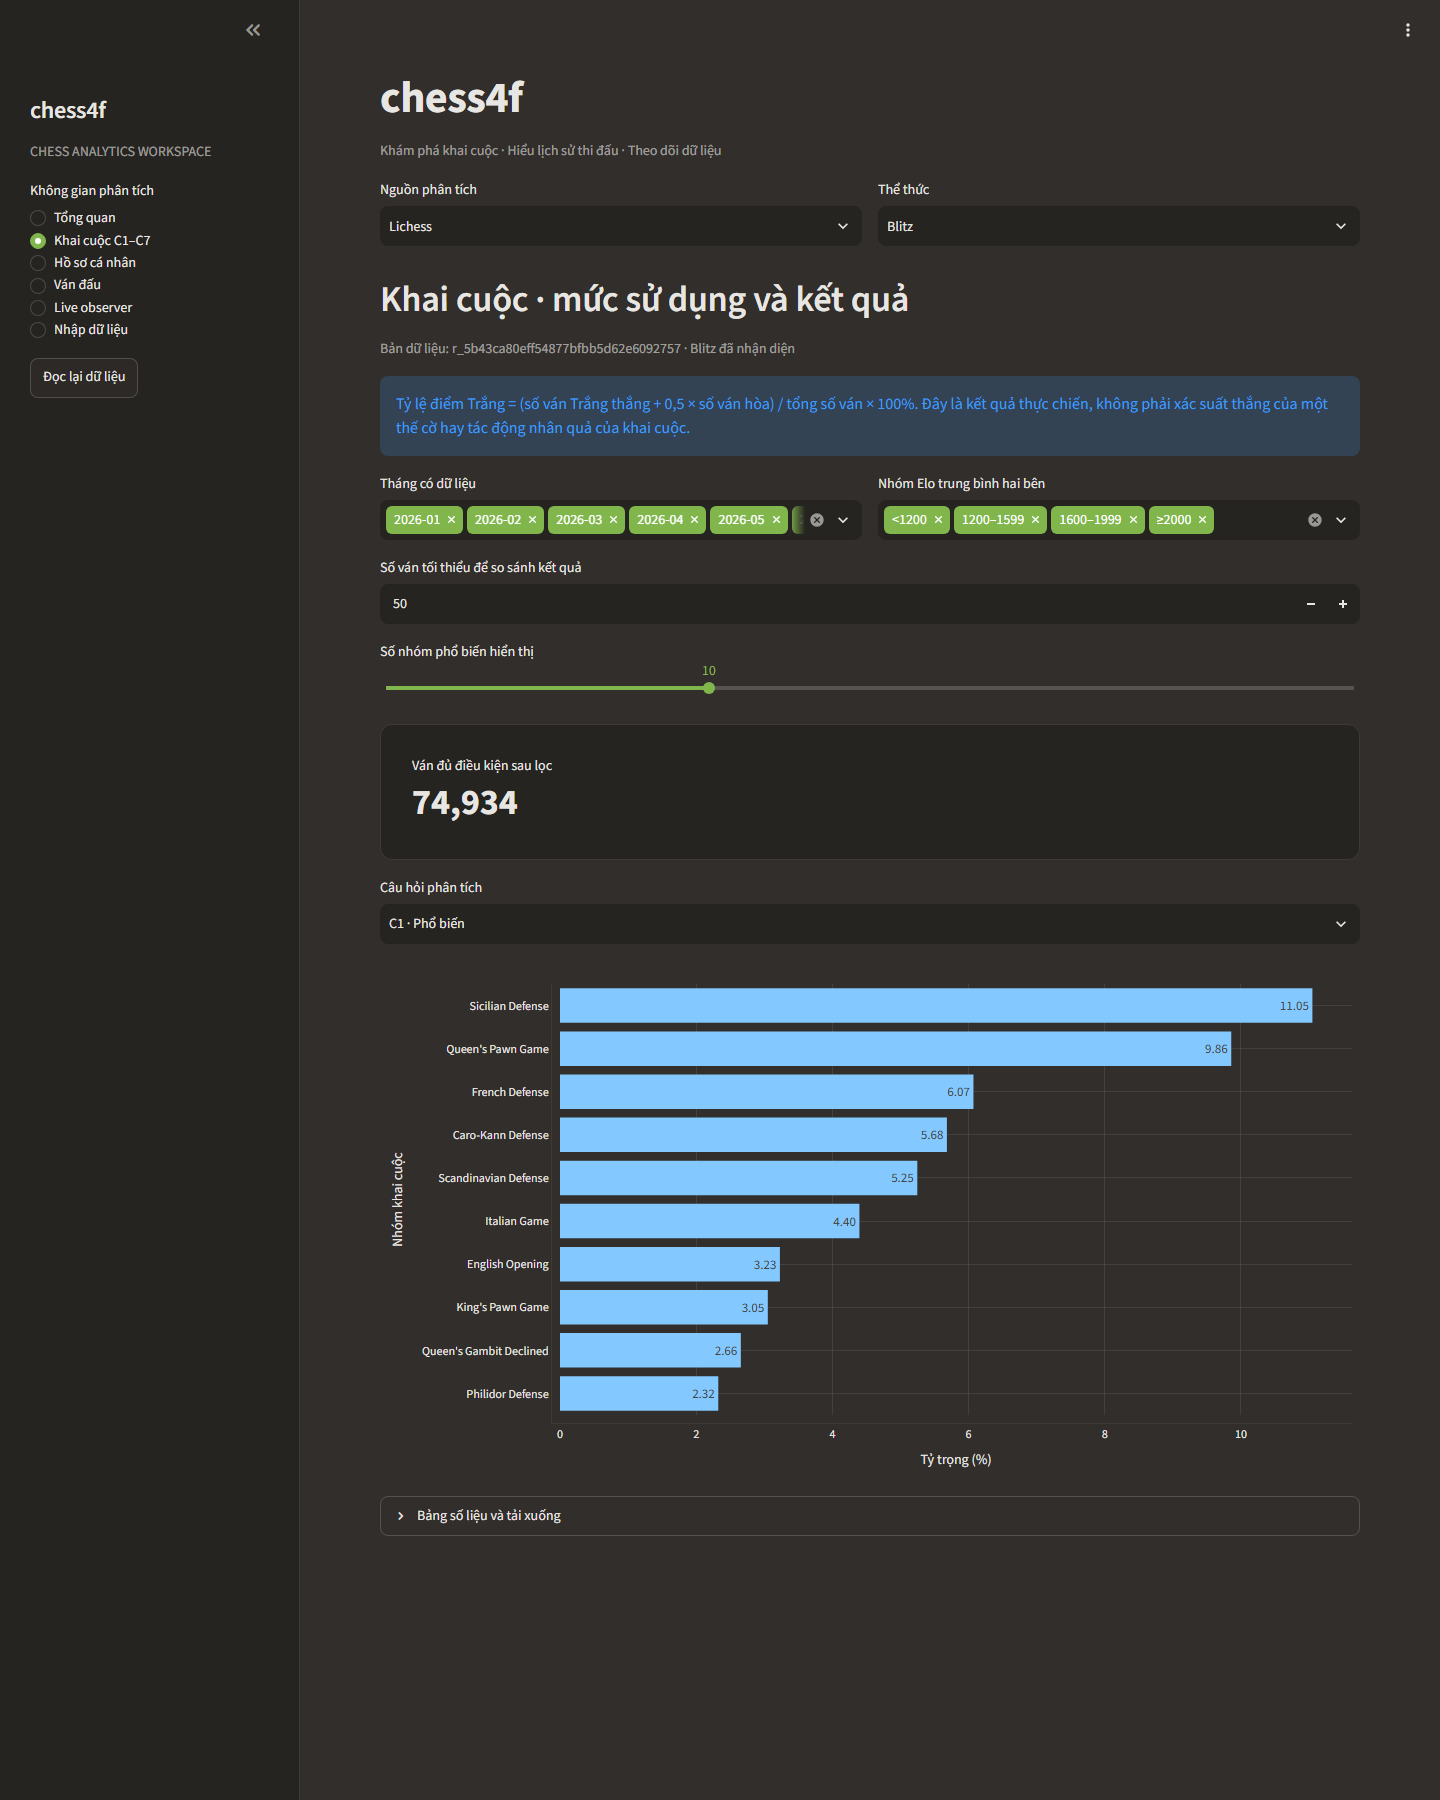
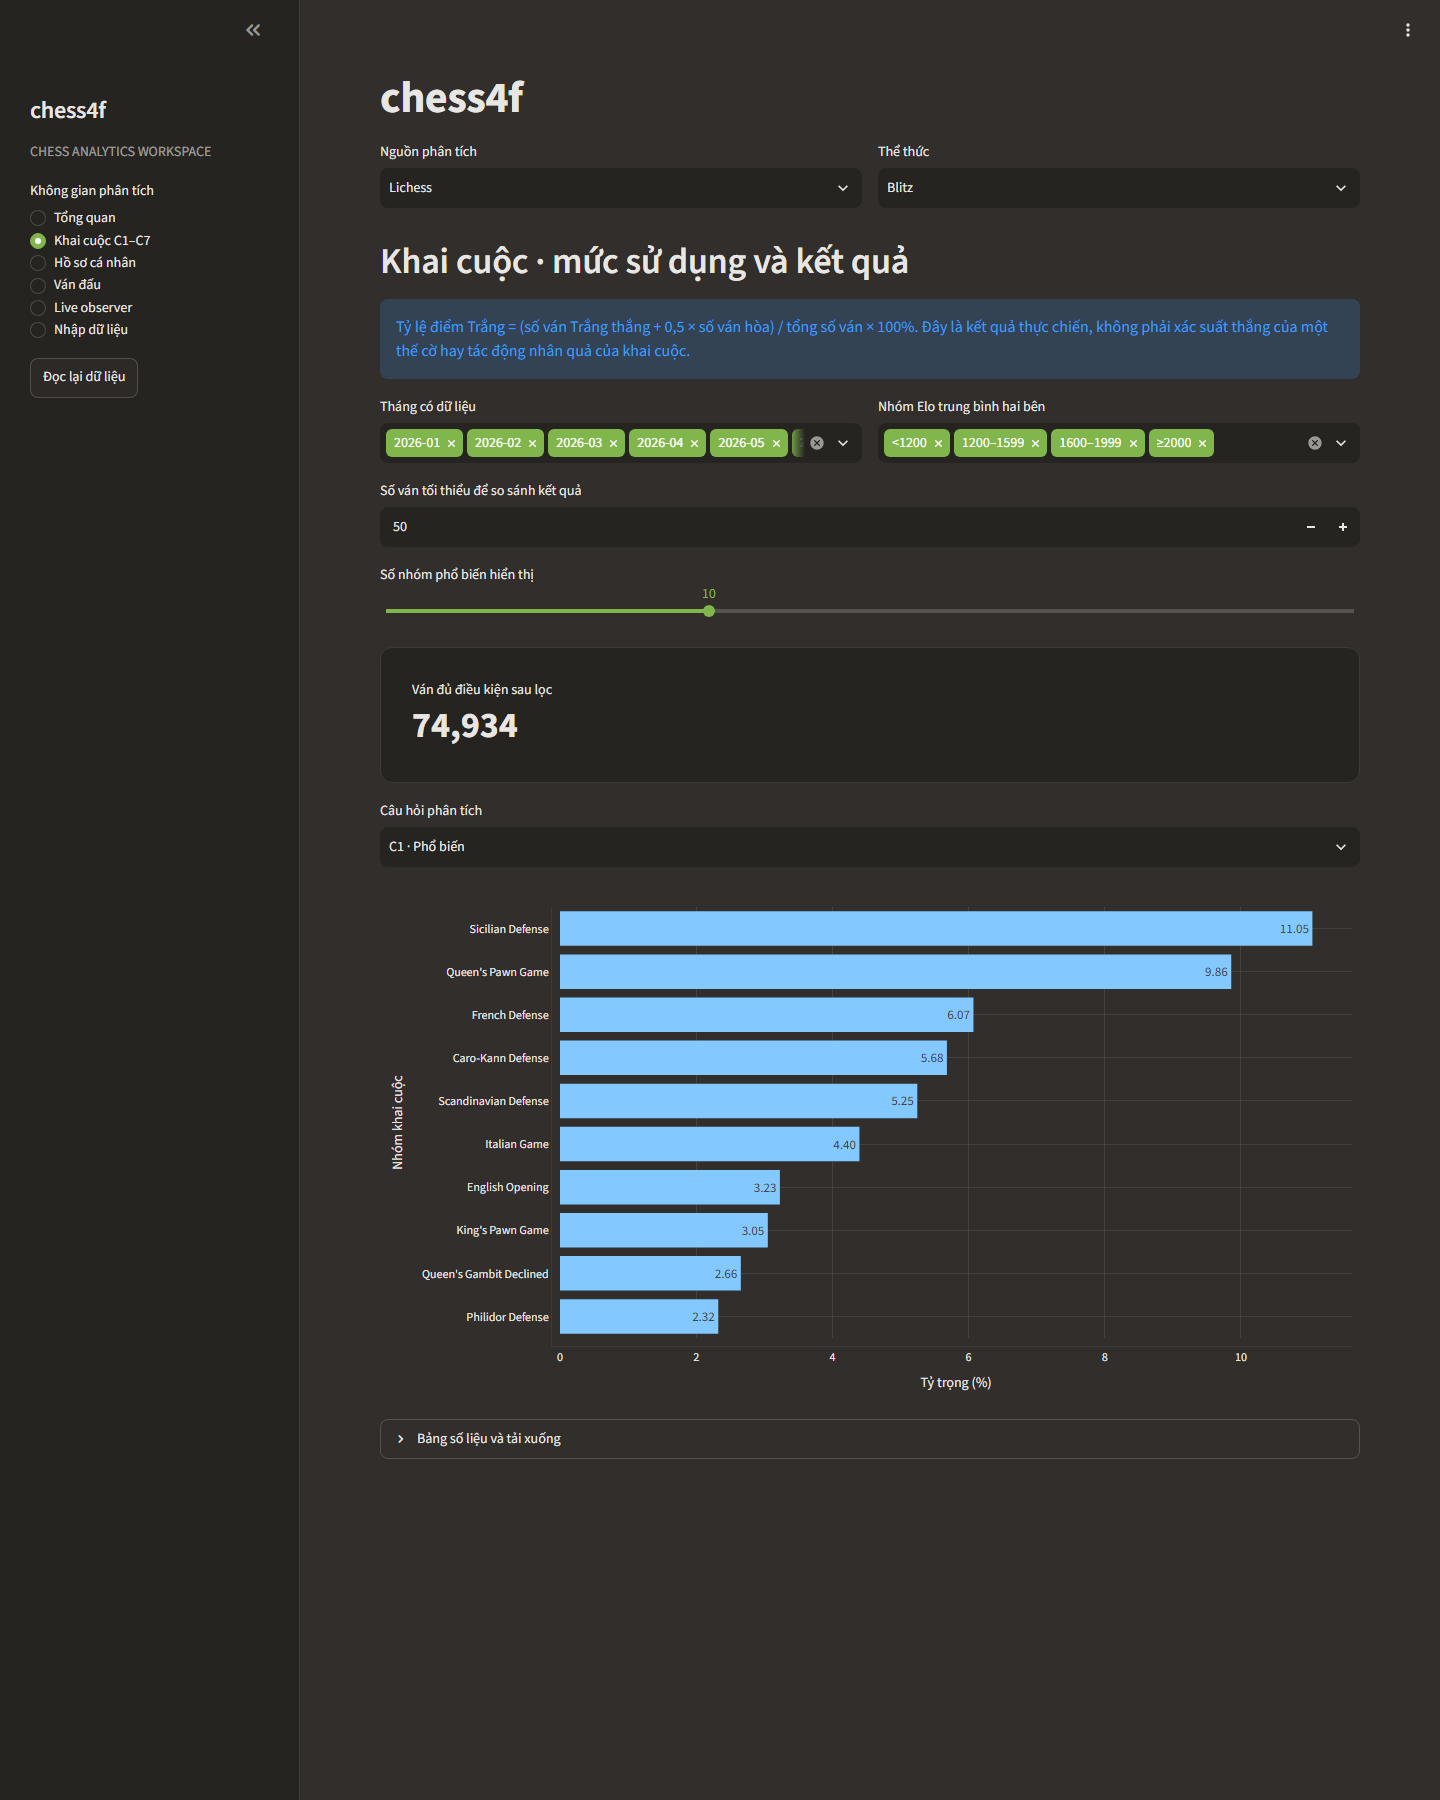
Remove tagline, range and release captions from the UI
Drops the 'Hiểu lịch sử thi đấu' tagline, the imported-range caption under
the overview metrics and the 'Bản dữ liệu' caption in opening analysis.
Screenshots recaptured on the dark theme; docs refreshed for the 107,155
game release.

diff --git a/apps/dashboard.py b/apps/dashboard.py
@@ -121,7 +121,6 @@ SPEED_NAMES = {"blitz": "Blitz", "rapid": "Cờ 10 phút (Rapid)", "bullet": "Bu
                "classical": "Classical", "all": "Tất cả thể thức"}
 BOARD_COLORS = {"square light": "#EEEED2", "square dark": "#769656"}
 st.title("chess4f")
-st.caption("Khám phá khai cuộc · Hiểu lịch sử thi đấu · Theo dõi dữ liệu")
 st.sidebar.title("chess4f")
 st.sidebar.caption("CHESS ANALYTICS WORKSPACE")
 section = st.sidebar.radio("Không gian phân tích", ["Tổng quan", "Khai cuộc C1–C7", "Hồ sơ cá nhân", "Ván đấu", "Live observer", "Nhập dữ liệu"])
@@ -146,7 +145,6 @@ if section == "Tổng quan":
         a.metric("Ván đã nhập", f'{s["games"]:,}', border=True)
         b.metric("Nhận diện được", f'{s["recognized"]:,}', border=True)
         c.metric("Nhóm khai cuộc", s["opening_families"], border=True)
-        st.caption(f'Phạm vi đã nhập: {s["first_game"]} → {s["last_game"]}')
         with st.expander("Phạm vi mẫu và cách cập nhật", expanded=False):
             if source == "lichess":
                 st.write("Mỗi lượt thu thập demo giới hạn 1.000 ván Rated Blitz đầu tiên khớp tháng. Bộ mẫu ban đầu tháng 9 và tháng 10/2026 gồm 2.000 ván; đồng bộ người chơi và ván trực tiếp có thể bổ sung dữ liệu; đây không phải giới hạn lưu trữ của hệ thống.")

diff --git a/apps/opening_analysis.py b/apps/opening_analysis.py
@@ -8,9 +8,6 @@ from theme import COLORS, WDL, style
 
 def render(payload):
     st.header("Khai cuộc · mức sử dụng và kết quả")
-    labels = {"blitz": "Blitz", "rapid": "Cờ 10 phút (Rapid)", "bullet": "Bullet",
-              "classical": "Classical", "all": "tất cả thể thức"}
-    st.caption(f'Bản dữ liệu: {payload["release_id"]} · {labels.get(payload.get("speed"), payload.get("speed"))} đã nhận diện')
     st.info("Tỷ lệ điểm Trắng = (số ván Trắng thắng + 0,5 × số ván hòa) / tổng số ván × 100%. Đây là kết quả thực chiến, không phải xác suất thắng của một thế cờ hay tác động nhân quả của khai cuộc.")
     df = pd.DataFrame(payload["rows"])
     if df.empty:

diff --git a/docs/COVERAGE.md b/docs/COVERAGE.md
@@ -2,7 +2,7 @@
 
 `chess4f coverage [--source lichess|chesscom|import] [--write]` reads the local
 Silver table and prints what was actually imported per source, month and day.
-It exists because a single total ("107,023 games") hides *where inside a month*
+It exists because a single total ("107,155 games") hides *where inside a month*
 those games came from.
 
 This is an operational artifact, not a published Delta table and not a
@@ -66,14 +66,14 @@ checkpoint exists.
 | lichess | 100,011 | 2026-09 | 10,000 | 1 | 10,000 | 0 | none |
 | lichess | 100,011 | 2026-10 | 10,010 | 2 | 10,000 | 10 | none |
 | lichess | 100,011 | 2026-11 | 1 | 1 | 0 | 0 | none |
-| chesscom | 7,012 | 2026-03 | 295 | 17 | 6 | 0 | none |
-| chesscom | 7,012 | 2026-04 | 177 | 15 | 0 | 0 | none |
-| chesscom | 7,012 | 2026-05 | 488 | 17 | 0 | 0 | none |
-| chesscom | 7,012 | 2026-06 | 709 | 24 | 0 | 29 | none |
-| chesscom | 7,012 | 2026-07 | 588 | 22 | 41 | 47 | none |
-| chesscom | 7,012 | 2026-08 | 1,281 | 31 | 161 | 17 | none |
-| chesscom | 7,012 | 2026-09 | 2,207 | 28 | 54 | 91 | none |
-| chesscom | 7,012 | 2026-10 | 1,267 | 28 | 26 | 47 | none |
+| chesscom | 7,144 | 2026-03 | 305 | 18 | 6 | 10 | none |
+| chesscom | 7,144 | 2026-04 | 252 | 21 | 0 | 0 | none |
+| chesscom | 7,144 | 2026-05 | 521 | 22 | 0 | 0 | none |
+| chesscom | 7,144 | 2026-06 | 723 | 26 | 3 | 29 | none |
+| chesscom | 7,144 | 2026-07 | 588 | 22 | 41 | 47 | none |
+| chesscom | 7,144 | 2026-08 | 1,281 | 31 | 161 | 17 | none |
+| chesscom | 7,144 | 2026-09 | 2,207 | 28 | 54 | 91 | none |
+| chesscom | 7,144 | 2026-10 | 1,267 | 28 | 26 | 47 | none |
 
 Conclusions the project must keep stating:
 

diff --git a/README.md b/README.md
@@ -42,9 +42,9 @@ Demo sources (bounded samples; see validation notes for publication status):
 | Source | Scope | Games |
 |---|---|---:|
 | Lichess | First 10,000 matching Rated Blitz/Rapid games from each 2026 monthly archive (Jan-Oct, explicit backfill) | 100,011 |
-| Chess.com | Public archives for `hikaru`, `bodoiheud`, `dambi333`, `magnuscarlsen`, `liemle`, `wonderfultime`, `duhless` and their opponents | 7,012 |
+| Chess.com | Public archives for `hikaru`, `bodoiheud`, `dambi333`, `magnuscarlsen`, `liemle`, `wonderfultime`, `duhless` and their opponents | 7,144 |
 
-Validation added player syncs, one completed observed Lichess game and a 10-month backfill: **107,023 unique games** (100,011 Lichess / 7,012 Chess.com) and 7,361,710 move rows at this checkpoint.
+Validation added player syncs, one completed observed Lichess game and a 10-month backfill: **107,155 unique games** (100,011 Lichess / 7,144 Chess.com) and 7,369,425 move rows at this checkpoint.
 
 The Lichess data is a **bounded integration sample**, not a random or representative monthly sample; each monthly cap selects the first matching Blitz/Rapid games, which all fall on that month's first day. The Chess.com sample is one player's history, not platform-wide data. Sources are selectable and not silently pooled. `chess4f coverage` records this shape per month and day. Data, models, credentials and virtual environments are excluded from Git.
 

diff --git a/docs/STATUS.md b/docs/STATUS.md
@@ -2,7 +2,7 @@
 
 ## Verified current functionality
 - Unified Compose: MinIO, Hive Metastore, Trino, FastAPI and Streamlit; Spark runs as an on-demand local job. Dagster runs on the host.
-- 107,023 unique real games: 100,011 Lichess and 7,012 Chess.com, 7,361,710 move rows. Lichess covers 10 monthly first-match caps (all on each month's first day) plus Rated Rapid; it is not a platform-wide population.
+- 107,155 unique real games: 100,011 Lichess and 7,144 Chess.com, 7,369,425 move rows. Lichess covers 10 monthly first-match caps (all on each month's first day) plus Rated Rapid; it is not a platform-wide population.
 - Username history sync from both Chess.com and Lichess passed download → Delta → MinIO → Spark comparison → Trino publication. Explicit sync button uses a selected month range and cap, not an unrestricted account crawl.
 - Public Lichess game eRIlxQlE was observed through resignation, then automatically queued and published as a finished game. Live updates are source-delayed; Chess.com live is not implemented.
 - Published release after first live ingestion: r_79b2a4f399dc48cbad86b447d1c730cc. Re-import checks may produce a newer release without increasing unique counts.

diff --git a/docs/CV.md b/docs/CV.md
@@ -18,7 +18,7 @@ Python 3.11 · Delta Lake (delta-rs) · DuckDB · PyArrow · MinIO S3 · Apache 
 ## English bullets
 
 - Built an end-to-end chess data platform ingesting public Lichess and Chess.com
-  games into Bronze/Silver/Gold Delta tables: 107,023 games and 7,361,710 move rows,
+  games into Bronze/Silver/Gold Delta tables: 107,155 games and 7,369,425 move rows,
   with content-addressed source objects (SHA-256), stable platform game IDs,
   idempotent upserts, quarantine and run manifests.
 - Implemented immutable release publication: snapshot under a writer lock,
@@ -67,7 +67,7 @@ Python 3.11 · Delta Lake (delta-rs) · DuckDB · PyArrow · MinIO S3 · Apache 
 
 | Claim | Evidence |
 |---|---|
-| 107,023 games / 7,361,710 moves | published release manifest `data/published/latest.json` |
+| 107,155 games / 7,369,425 moves | published release manifest `data/published/latest.json` |
 | Spark + Trino parity before publish | `lakehouse.validate_publish`, `jobs/build_gold.py`, docs/LAKEHOUSE.md |
 | Trino-only serving, 503 on failure | `src/chess4f/trino_serving.py`, `tests/test_serving.py` |
 | Dagster jobs/schedules/queue | `src/chess4f/definitions.py`, docs/ORCHESTRATION.md |

diff --git a/docs/VALIDATION.md b/docs/VALIDATION.md
@@ -151,3 +151,8 @@ With the Docker stack already running and the host Dagster restarted through `sc
 - Synced `magnuscarlsen`, `liemle` (Le Quang Liem), `wonderfultime` (Tuan Minh Le) and `duhless` (Daniil Dubov) for 2026-08..2026-10 with a 3,000-game cap each. Accepted 431 / 293 / 1,663 / 1,179 games; 19 Carlsen games were quarantined as nonstandard initial positions (Chess960 variants).
 - Published `r_f5e764cd1e4f446485f0210873a82d2b`: 107,023 games (100,011 Lichess / 7,012 Chess.com), 7,361,710 moves, 7,092 opening aggregates, 214,046 player rows. Spark parity and Trino publication passed.
 - Profiles: magnuscarlsen 432, liemle 294, wonderfultime 1,697, duhless 1,180 imported games.
+
+## 2026-11-03 dambi333 full-year sync and UI cleanup
+
+- A follow-up Chess.com sync for `dambi333` covering 2026-01..2026-10 completed and published `r_5b43ca80eff54877bfbb5d62e6092757`: 107,155 games (7,144 Chess.com), 7,369,425 moves, 7,174 opening aggregates, 214,310 player rows. The extra 132 games land in March-June.
+- Dashboard cleanup: removed the tagline, the "Phạm vi đã nhập" range caption and the opening-analysis "Bản dữ liệu" caption.
